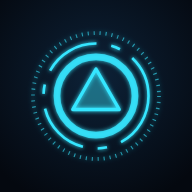
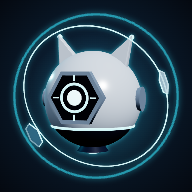
アプリのアイコンを PALLAS の画像にする
Claude-Session: https://claude.ai/code/session_01NoWnQDKbx8gsTBRt74YQne

diff --git a/js/ui/pallas.js b/js/ui/pallas.js
@@ -53,7 +53,7 @@ export function initPallas() {
     ),
   );
   bubble.addEventListener('pointerenter', () => clearTimeout(closeTimer));
-  const stage = h('div', { class: 'pd-stage' }, h('img', { class: 'pd-fallback', src: 'icons/icon.svg', alt: '' }));
+  const stage = h('div', { class: 'pd-stage' }, h('img', { class: 'pd-fallback', src: 'icons/pallas.png', alt: '' }));
   const droneBtn = h('button', { type: 'button', class: 'pallas-drone', 'aria-label': '案内役 PALLAS と話す（ドラッグで移動）' }, stage);
   const mini = h('button', { type: 'button', class: 'pallas-mini', hidden: '', onclick: () => setHidden(false) }, h('span', { class: 'dot' }), 'PALLAS');
   const layer = h('div', { class: 'pallas', id: 'pallas' }, bubble, droneBtn, mini);

diff --git a/index.html b/index.html
@@ -12,7 +12,7 @@
   <meta name="apple-mobile-web-app-status-bar-style" content="black-translucent">
   <meta name="apple-mobile-web-app-title" content="Work Station">
   <link rel="manifest" href="manifest.webmanifest">
-  <link rel="icon" href="icons/icon.svg" type="image/svg+xml">
+  <link rel="icon" href="icons/favicon-64.png" type="image/png" sizes="64x64">
   <link rel="icon" href="icons/icon-192.png" type="image/png" sizes="192x192">
   <link rel="apple-touch-icon" href="icons/apple-touch-icon.png">
   <link rel="preconnect" href="https://fonts.googleapis.com">
